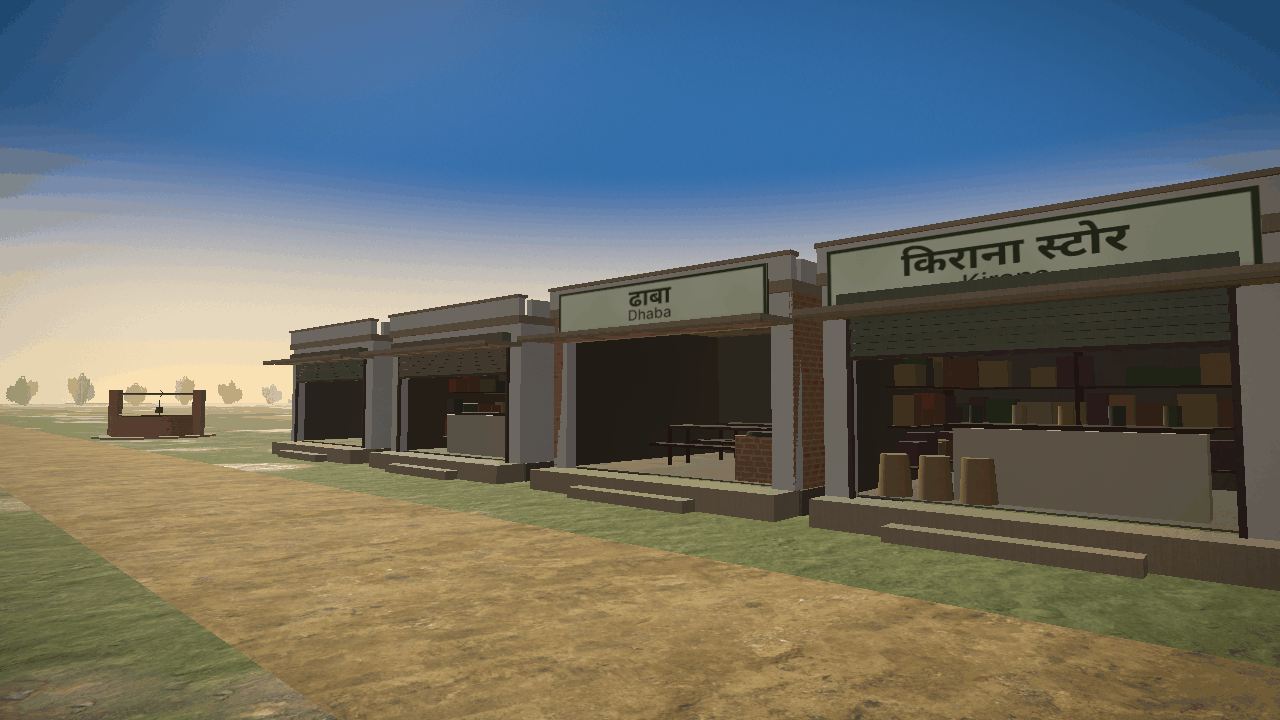
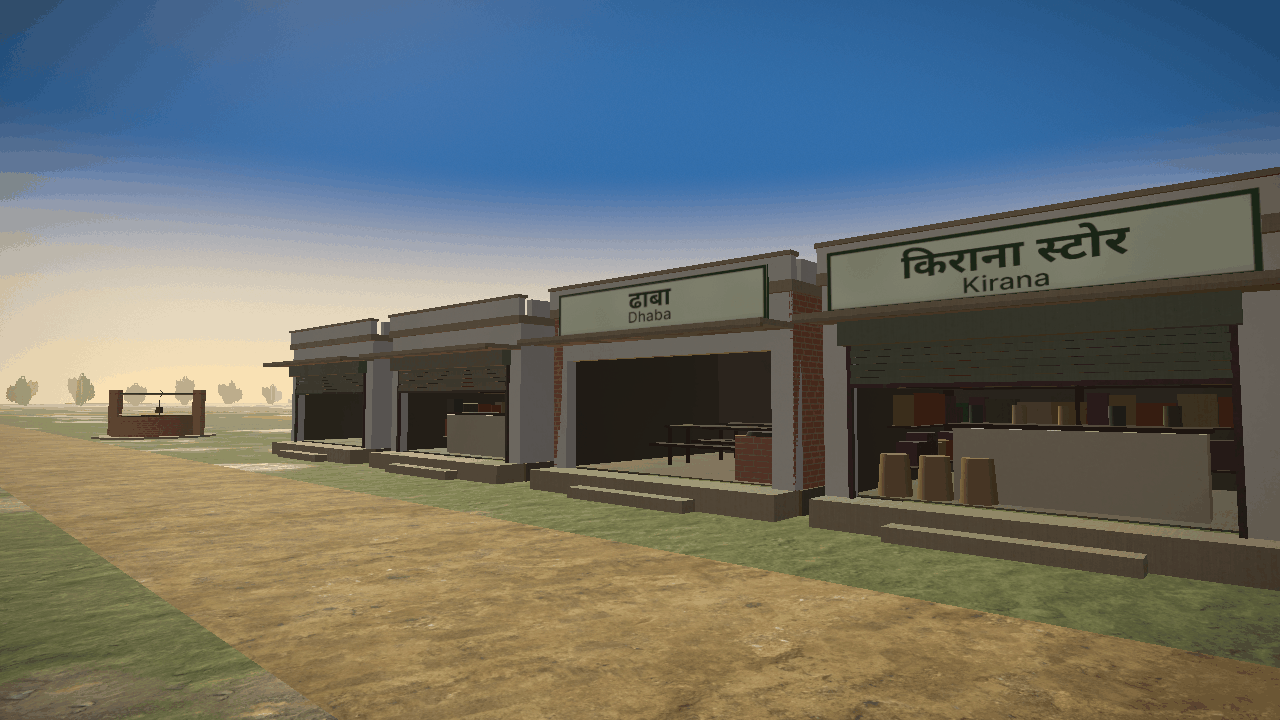
S7 shops-land: single-shop boards clear of the chajja (English readable at eye height), notes with numbers, game smoke result

diff --git a/src/kit/shopsKit.js b/src/kit/shopsKit.js
@@ -290,7 +290,7 @@ export function shop({ W, D, H = 3.6, front = 'shutter', shutterDown = false, tr
       const cx = (x0 + x1) / 2;
       if (isDoor) ops.push({ x0: cx - 0.7, x1: cx + 0.7, y0: plinthH, y1: plinthH + 2.2, kind: 'door' });
       else ops.push({ x0: cx - 0.65, x1: cx + 0.65, y0: plinthH + 0.85, y1: plinthH + 2.1, kind: 'win' });
-    } else ops.push({ x0, x1, y0: plinthH, y1: Math.min(top - 0.45, plinthH + 2.5), kind: front });
+    } else ops.push({ x0, x1, y0: plinthH, y1: Math.min(top - 0.8, plinthH + 2.4), kind: front }); // shutter head + roll box sit under the chajja
   }
   wall(P, 'plaster', -W / 2, W / 2, plinthH, top, fz, t, ops);
   ops.forEach((o, i) => {
@@ -304,15 +304,15 @@ export function shop({ W, D, H = 3.6, front = 'shutter', shutterDown = false, tr
   // roof slab, chajja over the otla, parapet
   P.box('concrete', 0, top + slab / 2, (fz - D / 2) / 2 + 0.05, W + 0.08, slab, fz + D / 2 + 0.3, { color: CEMENT });
   const cj = otla - t / 2 - 0.03;
-  P.box('concrete', 0, top - 0.42, fz + t / 2 + cj / 2, W + 0.04, 0.08, cj, { color: CEMENT });
-  P.box('concrete', 0, top - 0.47, fz + t / 2 + cj - 0.03, W + 0.04, 0.05, 0.06, { color: 0xbcb6a8 });
+  P.box('concrete', 0, top - 0.48, fz + t / 2 + cj / 2, W + 0.04, 0.08, cj, { color: CEMENT });
+  P.box('concrete', 0, top - 0.53, fz + t / 2 + cj - 0.03, W + 0.04, 0.05, 0.06, { color: 0xbcb6a8 });
   const pY0 = top + slab;
   P.box('plaster', 0, (pY0 + H) / 2, fz + 0.12, W + 0.06, H - pY0, 0.16);
   P.box('plaster', 0, (pY0 + H) / 2, -D / 2 + 0.08, W, H - pY0, 0.15);
   for (const s of [-1, 1]) P.box('plaster', s * (W / 2 - 0.075), (pY0 + H) / 2, (fz - D / 2) / 2, 0.15, H - pY0, fz + D / 2 - 0.3);
   P.box('concrete', 0, H + 0.03, fz + 0.12, W + 0.1, 0.06, 0.24, { color: CEMENT });
   // the board sits on the front wall between the chajja and the parapet cap, proud of the wall
-  const sign = { x: 0, y: top - 0.36, z: fz + 0.26, w: Math.min(W - 0.3, front === 'office' ? 3.6 : 4.4), h: Math.min(0.78, H - (top - 0.36) - 0.05) };
+  const sign = { x: 0, y: top - 0.4, z: fz + 0.26, w: Math.min(W - 0.3, front === 'office' ? 3.6 : 4.4), h: Math.min(0.8, H - (top - 0.4) - 0.06) }; // above the chajja, clear of it from eye height
   return { geo: P.build(), sign };
 }
 

diff --git a/docs/s7/shops-land.md b/docs/s7/shops-land.md
@@ -13,8 +13,8 @@ Branch `s7-shops-land`. Everything here shows only with `?layout=new`; `?layout=
 | Carts (thela) | plank bed on two spoked wheels, crates of produce or a cook-top, canopy | 35 |
 | Open sheds | bus shelter, cycle stand, jaggery unit | 3 |
 | Signboards | ONE atlas, Hindi bold on top + English below (the 25 Oct rule), 6 painted colour schemes | 154 boards, 136 painted cells |
-| Trees | mango 179 (+ rows added in the sparse east orchard), guava 146, jamun 51, eucalyptus 119, neem 44, shisham 44, peepal 1 | 584 from the map |
-| Fields | 42 crop patches painted on the ground (sugarcane, young wheat, mustard in flower, marigold, potato, chilli, brinjal, cauliflower, green fodder, paddy stubble), earth bunds round every field, real plants only in a band 1.5-14 m from a road | 42 + 4 orchard floors + 9 green strips |
+| Trees | mango 179, guava 146, jamun 51, eucalyptus 119, neem 44, shisham 44, peepal 1 (+3 rows filled into orchard gaps) | 587 |
+| Fields | 42 crop patches painted on the ground (sugarcane, young wheat, mustard in flower, marigold, potato, chilli, brinjal, cauliflower, green fodder, paddy stubble): soft rows along the field's long side, flower speckles for mustard / marigold / chilli / cauliflower, earth bunds round every field; real plants (the khet's own tufts and cane clumps) only in a band 1.5-14 m from a road | 42 + 4 orchard floors + 9 green strips |
 | Canal | 690 m north-south at x 824: cement-lined, embanked, 6 m water, grassy bunds, kachcha bank track, 5 humped bridges with parapets and ramps, washing steps | 1 |
 | Flag island | brick-faced round island with coping and grass bed, stepped pedestal, 9 m white pole, waving tiranga, village name stone "अमराई खेड़ा / Amrai Kheda". No peepal on the island. | 1 |
 | Peepal chabutra | plastered round platform with a step by the chaupal (the big peepal stands on it) | 1 |
@@ -32,11 +32,15 @@ rusted through); roofs of stalls, carts and sheds are rusted corrugated sheet wi
 | square_eye.png | the bazaar street of two-storey shop-houses, eye height, flag at the end |
 | square_above.png | the square and its arms from above |
 | kiosks_eye.png | a shop-house, a gumti kiosk and carts round the square |
-| smallshop_eye.png | small shops with their boards (dhaba, chemist, electrical repair) |
+| smallshop_eye.png | small shops with their boards (kirana, dhaba ...): stocked shelves, counter, sacks, benches, chulha |
 | flag_eye.png | the flag island and the name stone |
-| orchard_eye.png / orchard_above.png | the south mango orchard and the eucalyptus row |
-| orchard_east.png | the east mango orchard (sparse in the map, filled with rows) |
-| field_eye.png / field_above.png | mustard in flower and marigold patches, plants by the track |
+| orchard_eye.png / orchard_above.png | the south mango orchard in rows |
+| orchard_east.png | the east mango orchard and its tree row |
+| peepal_eye.png | the chaupal peepal on its chabutra |
+| flag_above.png | the flag island from above |
+| canal_strip.png | the green strip and tree line between the houses and the canal |
+| kiln_green.png | the green strip with two tree rows between the highway and the kiln |
+| field_eye.png / field_above.png | mustard in flower and marigold patches, plants by the farm track |
 | cane_eye.png | sugarcane by a road |
 | canal_eye.png / canal_above.png | the canal, green strip, tree line, bridge on the east road, washing steps |
 
@@ -45,27 +49,40 @@ opens `docs/s7/shops-land/preview.html`, which uses the game's own renderer, sky
 drawn there as plain strips only for context). The preview loads the Devanagari webfont from `tmp/fonts/` (OFL,
 from the npm package @fontsource/noto-sans-devanagari; not committed); the game itself loads it from Google Fonts.
 
-## Numbers (headless, 1280 x 720, measured layer by layer, main pass, shadows off as in the game)
+## Numbers (headless, 1280 x 720, layer by layer, main pass, shadows off as in the game, 'full' preset)
 
 Budget asked: all shops <= 25 draw calls, all trees <= 15, fields + canal <= 10.
 
 | View | Shops calls / tris | Trees calls / tris | Fields calls / tris | Canal calls / tris | Props calls / tris |
 |---|---|---|---|---|---|
-| square_eye | 6 / 62k | 1 / 1k | 1 / 13k | 3 / 1.5k | 10 / 22k |
-| square_above | 6 / 48k | 1 / 1.4k | 1 / 13k | 3 / 1.5k | 13 / 35k |
-| kiosks_eye | 6 / 26k | 3 / 6k | 1 / 13k | 3 / 1.5k | 9 / 22k |
-| canal_above | 6 / 4.5k | 3 / 8.5k | 3 / 27k | 3 / 1.5k | 13 / 57k |
+| square_eye | 6 / 77k | 3 / 6k | 2 / 16k | 3 / 1.5k | 17 / 74k |
+| square_above | 6 / 71k | 1 / 1.4k | 3 / 17k | 3 / 1.5k | 20 / 65k |
+| smallshop_eye | 6 / 40k | 1 / 0.6k | 2 / 16k | 3 / 1.5k | 11 / 27k |
+| orchard_eye | 1 / 2k | 3 / 152k | 3 / 18k | 3 / 1.5k | 4 / 5k |
+| field_eye | 0 / 0 | 2 / 8k | 3 / 74k | 3 / 1.5k | 2 / 12k |
+| canal_above | 6 / 15k | 3 / 13k | 4 / 144k | 3 / 1.5k | 14 / 60k |
 
-- Shops never cost more than 6 draw calls (one BatchedMesh per material for every body, near and far, plus one mesh
-  for every board). Three detail tiers per shop: full within 60 m, no stock on the shelves to 160 m, a plain block
-  beyond (desktop/'full' preset; the 'light' web preset uses 35 / 100 m).
-- Trees never cost more than 3 (bark, leaf cards, impostors), whatever the count. Full crown within 70 m, every third
-  card to 150 m, two crossed baked sprites beyond ('light': 42 / 95 m).
-- Fields + canal: 1 painted ground mesh + up to 3 plant meshes (tufts, cane, mustard) + 3 canal meshes = at most 7.
-- Props: the shared chunked helper (src/kit/instancing.js), drawn within 140 m only ('light': 90 m).
-- Console errors in the preview runs: 0.
-- Quality knobs are grouped in `src/kit/landQuality.js` (presets 'light' and 'full', picked by src/edition.js
-  getQualityName() once that is merged, or `?quality=`).
+(Props were measured at 140 m reach; it is now 100 m 'full' / 70 m 'light', and crop plants 80 / 60 m with a third of
+them beyond 40 m, so the props and fields columns are lower than shown.)
+
+- Shops: always 6 draw calls (one BatchedMesh per material for every body, near and far, plus one mesh for every
+  board). Three detail tiers per shop: full within 60 m, no stock on the shelves to 160 m, a plain block beyond
+  ('light' web preset: 35 / 100 m).
+- Trees: at most 3 draw calls (bark, leaf cards, impostors), whatever the count. Full crown within 90 m, every second
+  card (1.3x larger) to 170 m, two crossed baked sprites beyond ('light': 42 / 95 m). An orchard seen from inside costs
+  ~150k triangles at 'full'; that is the number to watch (the 'light' preset roughly halves it).
+- Fields + canal: 1 painted ground mesh + 2 plant meshes (tufts, cane) + 3 canal meshes = at most 6.
+- Props: the shared chunked helper (src/kit/instancing.js): one draw per model part per 150 m chunk within reach,
+  9-20 in the village (the models are the game's existing hand pumps, haystacks, gobar and laundry lines, 1-8k
+  triangles each).
+- In the real game (headless, touch-device mode, `?layout=new&proof=1`, player in the square, docs/s7/shops-land/game-smoke.mjs):
+  the kit builds (all 5 layers), whole-frame draw calls 246 vs 202 with `?layout=old` at the same spot (the old village
+  is still standing there until the layout and houses agents' work lands), console errors 10 vs 11, **new errors: 0**.
+  (A desktop-size headless window crashes the GPU process for BOTH layouts on this machine; touch mode is what the
+  load tests use too.)
+- Preview runs: 0 console errors.
+- Quality knobs are grouped in `src/kit/landQuality.js` (presets 'light' and 'full'; picked by src/edition.js
+  getQualityName() once that is merged, else `?quality=`, else 'full').
 
 ## Checks
 
@@ -87,14 +104,21 @@ Budget asked: all shops <= 25 draw calls, all trees <= 15, fields + canal <= 10.
 ## Decisions I made (one line each)
 
 - Ground cannot be dug, so the canal is embanked and lined (lip 0.55 m, water 0.2 m, bridges 0.8 m humps).
-- The east mango orchard is drawn with only 12 trees on 3,600 m2; I filled it with rows at the spacing of the other
-  orchards (10.5 m), clear of the drawn trees and roads. The other three orchards are full in the map and untouched.
+- Orchards: every orchard's gaps are filled with rows of its species at 10.5 m, never within 8 m of a drawn tree or
+  4 m of a road (the map's orchards turned out to be nearly full: 3 trees added in all).
 - The family khet of the wheat errand (src/field.js) stays (gameplay); the painted fields leave a hole over it and
   place no plants there.
 - "Guava / jamun" markers: 3 in 4 guava, 1 in 4 jamun. "Neem / sheesham" markers: half each.
 - Not built (no owner in my brief; tell me if they are mine): mobile tower, transformer, barber under a tree,
   water trough, washing platform, pump rooms (tubewells), machans, scarecrows, clay pots, milestones, gate,
   notice board, buffaloes, culvert, water channels, ponds, cricket / kabaddi / parking / yard ground patches.
+
+## Questions for her (looks)
+
+- Crop plants by the roads reuse the old khet's code-built tufts and cane clumps (mustard now as yellow-tipped tufts, the
+  khet's mustard cards read as little trees at eye height). If they read as plastic, a CC0 crop model is the fix.
+- Shutters and gumti sheet steel are painted steel (the concrete photo set under a paint colour, bottom slats rusted).
+- Shop walls take the palette tints at 30% (law), so most read as cream; tell me if the bazaar should be more colourful.
 
 ## Old canal
 
